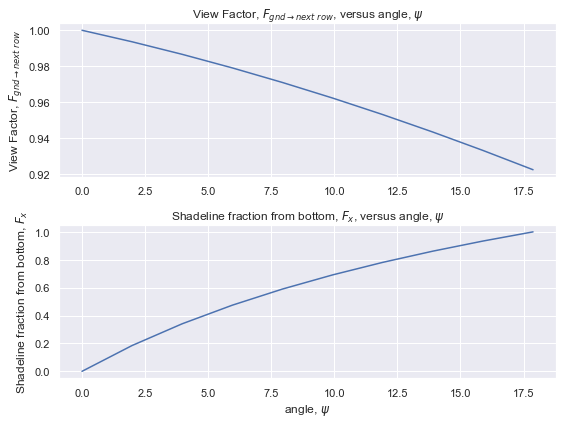
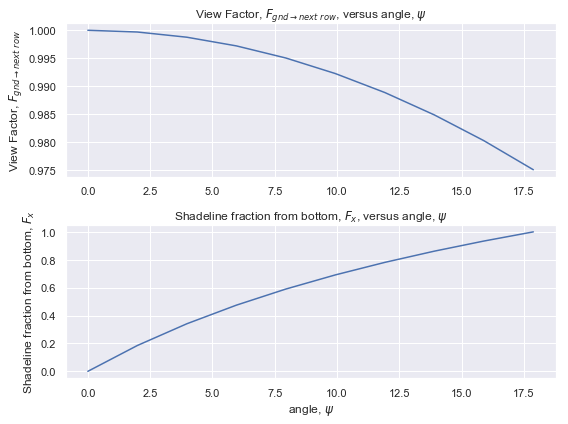
new figs, update captions, with dif-sky blockage, Fgnd-pv and Fsky-pv adjustments are smaller

diff --git a/SolarFarmerBifacialModeling.tex b/SolarFarmerBifacialModeling.tex
@@ -631,7 +631,7 @@ We can derive expressions for the angles to the top and bottom of the next row a
 \tan \psi_{top}\left(x \right) &= \frac{F_y GCR \sin \beta}{1 - F_y GCR \cos \beta}
 \end{align}
 
-Fig. \ref{fig:gnd-front-nextrow}, \ref{fig:gnd-back-nextrow}, \ref{fig:sky-front-nextrow}, and \ref{fig:sky-back-nextrow} show that the ground and sky view factor adjustments are nearly linear from the top to the bottom of the rack.  At the bottom of the PV surface, where $F_x=0$, the ground view factor adjustment is 1, and $\psi_{bottom}=0$.  Then, the ground view factor adjustment decreases by more than 50\% on the front surface in Fig. \ref{fig:gnd-front-nextrow} but less than 10\% on the back surface in Fig. \ref{fig:gnd-back-nextrow}, as $x$ moves to the top of the panel.  At the top of the PV surface, where $F_x=1$, the sky view factor adjustment is 1, and the $\psi_{top}=0$.  Then the sky view factor adjustment decreases by less than 10\% on the front surface in Fig. \ref{fig:sky-front-nextrow}, but more than 50\% on the back surface in Fig. \ref{fig:sky-back-nextrow}, as $x$ moves to the bottom of the panel.
+Fig. \ref{fig:gnd-front-nextrow}, \ref{fig:gnd-back-nextrow}, \ref{fig:sky-front-nextrow}, and \ref{fig:sky-back-nextrow} show that the ground and sky view factor adjustments are nearly linear from the top to the bottom of the rack.  At the bottom of the PV surface, where $F_x=0$, the ground view factor adjustment is 1, and $\psi_{bottom}=0$.  Then, the ground view factor adjustment decreases by 10\% on the front surface in Fig. \ref{fig:gnd-front-nextrow} but only 2.5\% on the back surface in Fig. \ref{fig:gnd-back-nextrow}, as $x$ moves to the top of the panel.  At the top of the PV surface, where $F_x=1$, the sky view factor adjustment is 1, and the $\psi_{top}=0$.  Then the sky view factor adjustment decreases by 2.5\% on the front surface in Fig. \ref{fig:sky-front-nextrow}, and 10\% on the back surface in Fig. \ref{fig:sky-back-nextrow}, as $x$ moves to the bottom of the panel.  Therefore in this example, the additional blockage caused by adjacent rows requires only a small adjustment to the single row view factor.
 
 % Fig. 7: ground diffuse on frontside w/nextrow
 \begin{figure}
